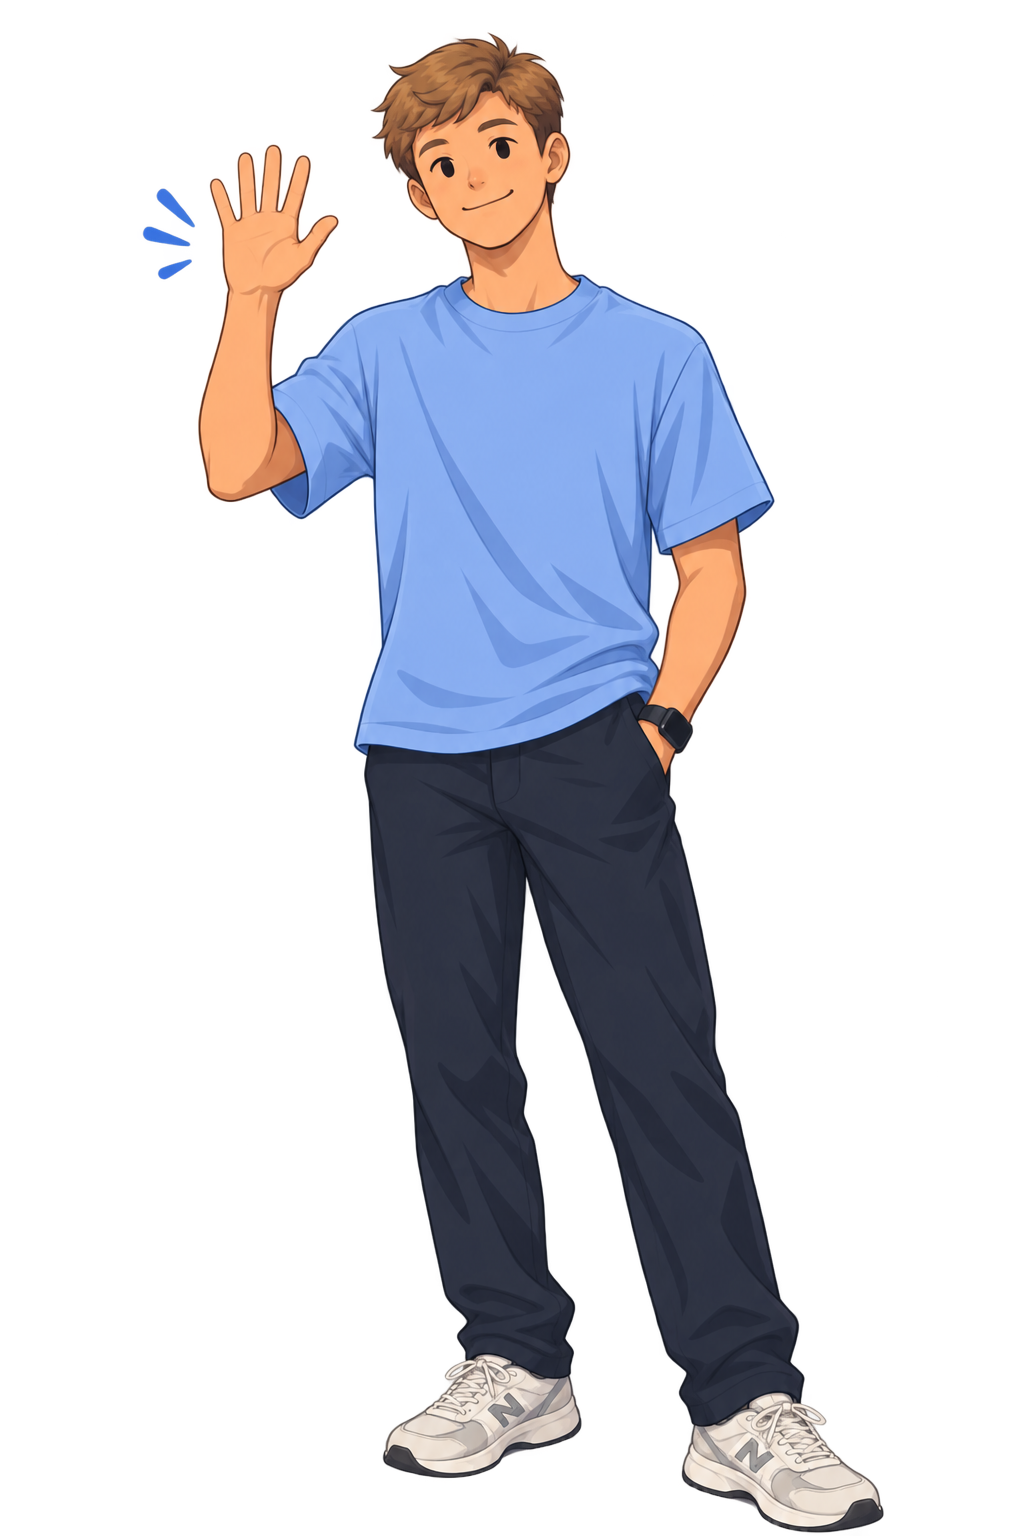
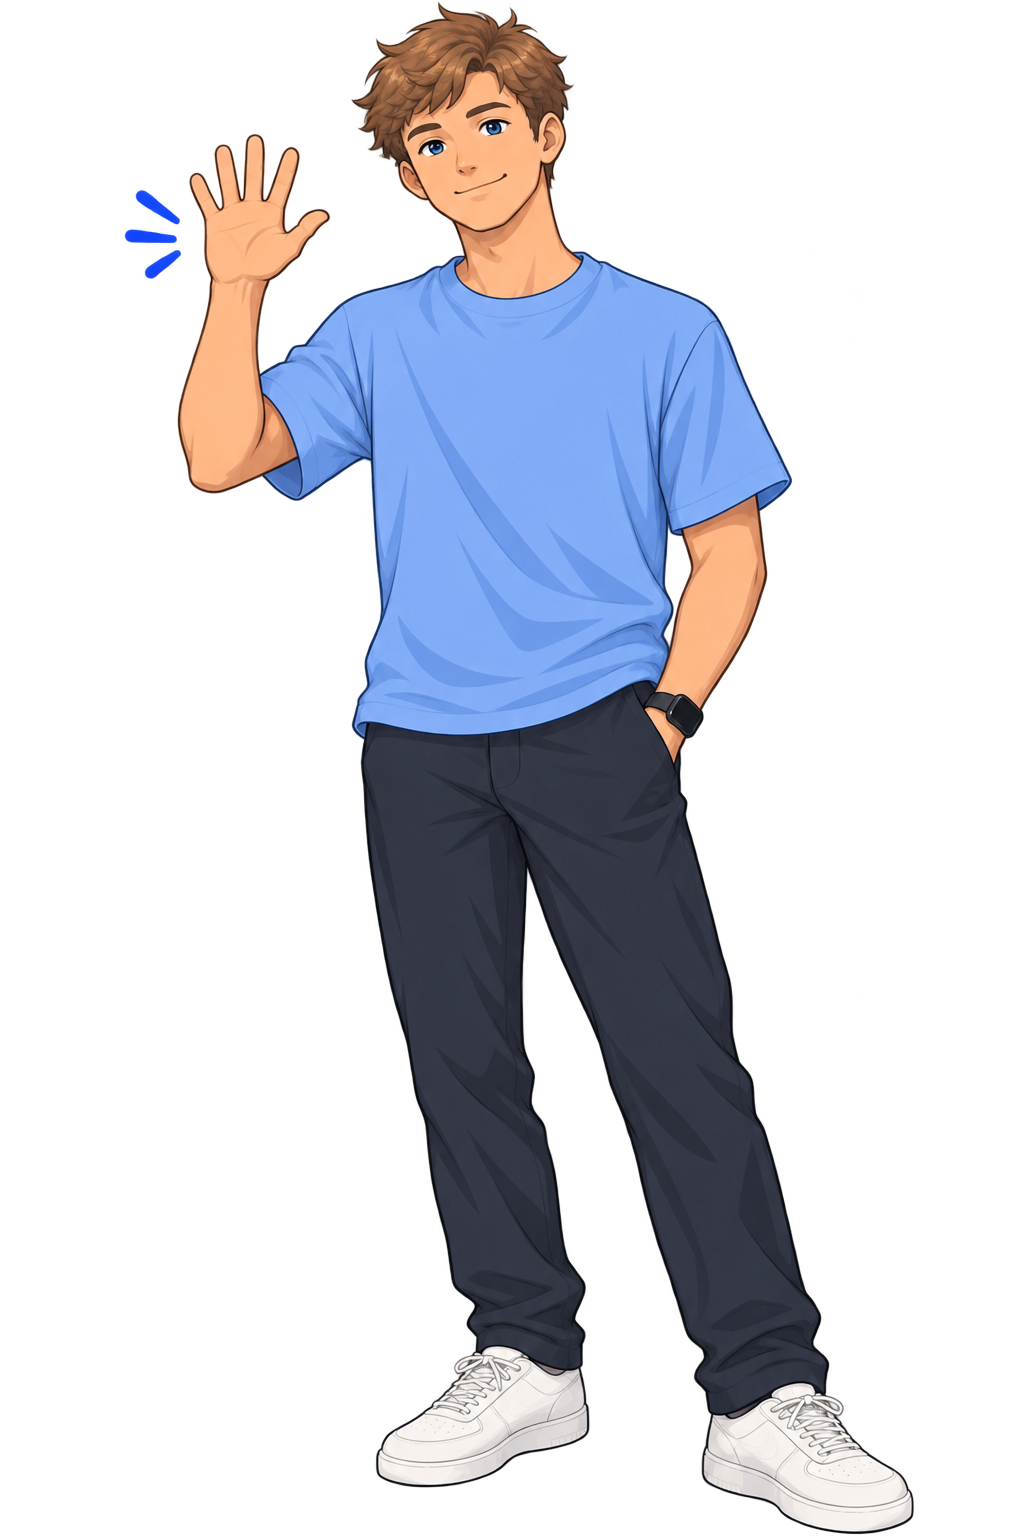
added more projects and screenshots

diff --git a/app/page.tsx b/app/page.tsx
@@ -28,7 +28,7 @@ const fields = [
     chrome extensions, automations, and mobile development to AI engineering, NLP, backend APIs, and cloud technologies. I like exploring different areas of computer science and finding new things to build.` },
   { title: "Experience", dialogue: "" },
   { title: "Projects", dialogue: "Next, here's a few things I’ve built." },
-  { title: "Contact", dialogue: "Thanks for stopping by. This is where we can connect." },
+  { title: "Contact", dialogue: "That’s a bit about me and what I’ve been working on. If you want to talk about a project, an opportunity, or something interesting you’re building, feel free to reach out." },
 ];
 
 const experiences = [
@@ -60,12 +60,44 @@ const experiences = [
 
 const projects = [
   {
+    title: "Wordscope Browser Extension",
+    imageSrc: "project_images/ListingSS_1.jpg",
+    description: "Wordscope is a lightweight, on-page lookup tool that helps the user grasp unfamiliar words without breaking flow. When selecting text on a webpage, you can open a clean bubble with definitions, synonyms/antonyms, pronunciations, examples, and optional AI context right where you’re reading.",
+    href: "https://github.com/mattdavis207/wordscope",
+    linkText: "Project Link",
+    newTab: true
+  },
+  {
     title: "Personality Space Explorer",
     imageSrc: "project_images/personality_space_explorer.png",
     description: "This is a personality space explorer on the web that is meant for discovering patterns and similarities of various personalities based on 50k+ records of celebrity personality data.",
     href : "https://github.com/mattdavis207/personality-space-explorer",
     linkText : "Project Link",
     newTab : true
+  },
+  {
+    title: "Cozynest RAG Pipeline",
+    imageSrc: "project_images/admin_ui.png",
+    description: "CozyNest RAG Pipeline is a backend-focused e-commerce customer support assistant. It lets an admin upload store documents, indexes those documents into a Supabase/Postgres vector database, and uses retrieved context to answer customer questions with cited sources.",
+    href: "https://github.com/mattdavis207/cozynest_rag_pipeline",
+    linkText: "Project Link",
+    newTab: true
+  },
+  {
+    title: "Mindmapper",
+    imageSrc: "project_images/mindmapper_ss.png",
+    description: "Mindmapper is an intuitive Python application designed to aid brainstorming, studying, and knowledge mapping. By creating dynamic tree diagrams, this tool enables users to connect and organize ideas visually, making it ideal for conceptualizing and exploring complex topics.",
+    href: "https://github.com/mattdavis207/mindmapper",
+    linkText: "Project Link",
+    newTab: true
+  },
+  {
+    title: "Trading Analysis Automation",
+    imageSrc: "project_images/n8n_automation_ss.png",
+    description: "Automated forex analysis pipeline that retrieves TradingView market data to identify Triple M and engulfing candle setups across historical price ranges. Built with Python, FastAPI, and n8n to analyze price action, generate annotated candlestick visualizations, and automatically log structured results to Notion.",
+    href: "https://github.com/mattdavis207/knowledge_extractor_api/tree/main",
+    linkText: "Project Link",
+    newTab: true
   }
 ]
 
@@ -75,7 +107,7 @@ function Dialogue({ text, reducedMotion, fieldIndex }: { text: string; reducedMo
   useEffect(() => {
     if (reducedMotion) return;
 
-    const delay = fieldIndex === 1 ? 10 : 30;
+    const delay = fieldIndex === 1 ? 10 : fieldIndex=== 4 ? 20: 30;
 
     const timer = window.setInterval(() => {
       setVisibleCharacters((count) => {
@@ -218,6 +250,24 @@ export default function Home() {
                           newTab={true}
                         />
                       ))}
+                    </div>
+                  )}
+                  {fieldIndex === 4 && (
+                    <div className="flex flex-wrap gap-3 py-3">
+                      <LinkCard
+                        href="https://www.linkedin.com/in/matthew-davis237/"
+                        icon={<FaLinkedin size={24}/>}
+                        title="Linkedin"
+                        description=""
+                        newTab={true}
+                      />
+
+                      <LinkCard
+                        href="mailto:mattdavis2313@gmail.com"
+                        icon={< LuMail size={24}/>}
+                        newTab={true}
+                        title="Email"
+                      />
                     </div>
                   )}
                 </motion.div>
